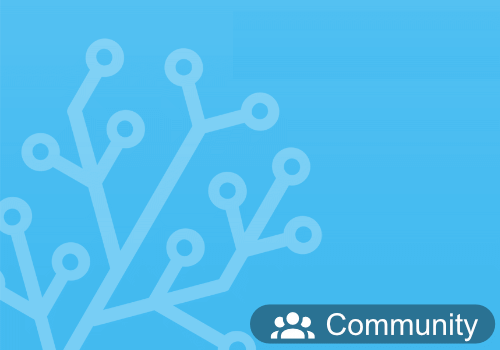
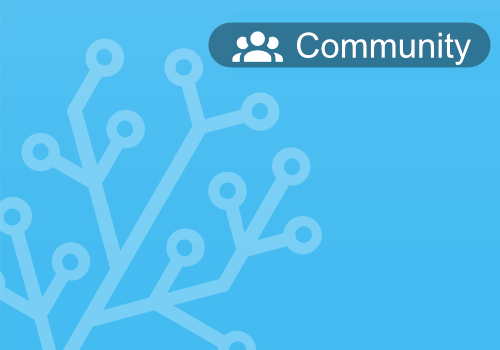
0.1.1
Updated: App image, Community thread;
Added: Instant entity refresh without app restart/manual reconnect.

Changed region(s): [[0.39, 0.0571, 0.99, 0.2], [0.48, 0.8571, 0.99, 1.0]]

diff --git a/lib/Client.js b/lib/Client.js
@@ -47,6 +47,7 @@ class Client extends Homey.SimpleClass {
 		this._binary_sensors = [];
 		this._compounds = [];
 		this._media_players = [];
+		this._entitiesLength = 0;
 
 		this._devices = {};
 		this._connection = null;
@@ -115,12 +116,14 @@ class Client extends Homey.SimpleClass {
 		});
 	}
 
-	async disconnect(){
+	async disconnect(wait = true){
 		if(this._unsubscribeEntities != null){
 			try{
 				this._app.log('unsubscribe entity subscription');
 				this._unsubscribeEntities();
-				await this.sleep(2000);
+				if (wait){
+					await this.sleep(2000);
+				}
 				this._unsubscribeEntities = null;
 			}
 			catch(error){
@@ -131,7 +134,30 @@ class Client extends Homey.SimpleClass {
 			try{
 				this._app.log('close existing connection.');
 				this._connection.close();
-				await this.sleep(1000);
+				if (wait){
+					await this.sleep(1000);
+				}
+				this._connection = null;
+			}
+			catch(error){
+				this._app.error('Error: close existing connection.');
+			}
+		}
+	}
+
+	async close(){
+		if(this._unsubscribeEntities != null){
+			try{
+				this._unsubscribeEntities();
+				this._unsubscribeEntities = null;
+			}
+			catch(error){
+				this._app.error('Error: close existing connection.');
+			}
+		}
+		if(this._connection != null) {
+			try{
+				this._connection.close();
 				this._connection = null;
 			}
 			catch(error){
@@ -161,6 +187,7 @@ class Client extends Homey.SimpleClass {
 					this._binary_sensors = [];
 					this._collection = null;
 					this._entities = [];
+					this._entitiesLength = 0;
 
 					let auth = new Hass.Auth({
 						hassUrl: address,
@@ -227,7 +254,8 @@ class Client extends Homey.SimpleClass {
 	}
 	
 	_onEntitiesUpdate(entities) {
-		if(this._entities.length != entities.length) {
+		let currentLength = Object.keys(entities).length;
+		if(currentLength != this._entitiesLength) {
 			this._app.log("update entities");
 
 			let lights = [];
@@ -762,6 +790,7 @@ class Client extends Homey.SimpleClass {
 			this._compounds = compounds;
 			this._media_players = media_players;
 			this._entities = entities;
+			this._entitiesLength = currentLength;
 
 			if(update) {
 				setTimeout(() => {

diff --git a/drivers/switch/device.js b/drivers/switch/device.js
@@ -15,11 +15,6 @@ class SwitchDevice extends Homey.Device {
 
         this._client.registerDevice(this.entityId, this);
 
-        let entity = this._client.getEntity(this.entityId);
-        if(entity) { 
-            this.onEntityUpdate(entity);
-        }
-
         this.registerCapabilityListener('onoff', async (value, opts) => {
             await this.onCapabilityOnoff(value, opts);
         });
@@ -28,6 +23,10 @@ class SwitchDevice extends Homey.Device {
         this.registerCapabilityListener('button.reconnect', async () => {
             await this.clientReconnect()
         });
+
+        // Init device with a short timeout to wait for initial entities
+        this.timeoutInitDevice = this.homey.setTimeout(async () => this.onInitDevice().catch(e => console.log(e)), 5 * 1000 );
+
     }
 
     async updateCapabilities(){
@@ -45,6 +44,18 @@ class SwitchDevice extends Homey.Device {
     onDeleted() {
         this.log('device deleted');
         this._client.unregisterDevice(this.entityId);
+    }
+
+    async onInitDevice(){
+        // Init device on satrtup with latest data to have initial values before HA sends updates
+        this.homey.clearTimeout(this.timeoutInitDevice);
+        this.timeoutInitDevice = null;
+
+        this.log('Device init data. ID: '+this.entityId+" Name: "+this.getName()+" Class: "+this.getClass());
+        let entity = this._client.getEntity(this.entityId);
+        if (entity){
+            this.onEntityUpdate(entity);
+        }
     }
 
     async onCapabilityOnoff( value, opts ) {

diff --git a/drivers/compound/device.js b/drivers/compound/device.js
@@ -49,6 +49,10 @@ class CompoundDevice extends Homey.Device {
         this.timeoutInitDevice = this.homey.setTimeout(async () => this.onInitDevice().catch(e => console.log(e)), 5 * 1000 );
     }
 
+    async onUninit(){
+
+    }
+    
     async updateCapabilities(){
         // Add new capabilities (if not already added)
         if (!this.hasCapability('button.reconnect'))
@@ -146,6 +150,9 @@ class CompoundDevice extends Homey.Device {
 
     async onInitDevice(){
         // Init device on satrtup with latest data to have initial values before HA sends updates
+        this.homey.clearTimeout(this.timeoutInitDevice);
+        this.timeoutInitDevice = null;
+
         this.log('Device init data. ID: '+this.entityId+" Name: "+this.getName()+" Class: "+this.getClass());
         
         Object.keys(this.compoundCapabilities).forEach(key => {
@@ -201,7 +208,9 @@ class CompoundDevice extends Homey.Device {
                                     tokens.value_boolean = value;
                                     break;
                             }
-                            this.homey.app._flowTriggerCapabilityChanged.trigger(this, tokens, state);
+                            if (this.homey.app){
+                                await this.homey.app._flowTriggerCapabilityChanged.trigger(this, tokens, state);
+                            }
                         }
                     }
                     catch(error) {

diff --git a/drivers/media/device.js b/drivers/media/device.js
@@ -155,6 +155,9 @@ class MediaDevice extends Homey.Device {
 
     async onInitDevice(){
         // Init device on satrtup with latest data to have initial values before HA sends updates
+        this.homey.clearTimeout(this.timeoutInitDevice);
+        this.timeoutInitDevice = null;
+
         this.log('Device init data. ID: '+this.entityId+" Name: "+this.getName()+" Class: "+this.getClass());
         let entity = this._client.getEntity(this.capability);
         if (entity){

diff --git a/drivers/sensor/device.js b/drivers/sensor/device.js
@@ -44,6 +44,9 @@ class SensorDevice extends Homey.Device {
 
     async onInitDevice(){
         // Init device on satrtup with latest data to have initial values before HA sends updates
+        this.homey.clearTimeout(this.timeoutInitDevice);
+        this.timeoutInitDevice = null;
+
         this.log('Device init data. ID: '+this.entityId+" Name: "+this.getName()+" Class: "+this.getClass());
         let entity = this._client.getEntity(this.entityId);
         if (entity){

diff --git a/drivers/light/device.js b/drivers/light/device.js
@@ -52,6 +52,9 @@ class LightDevice extends Homey.Device {
 
     async onInitDevice(){
         // Init device on satrtup with latest data to have initial values before HA sends updates
+        this.homey.clearTimeout(this.timeoutInitDevice);
+        this.timeoutInitDevice = null;
+
         this.log('Device init data. ID: '+this.entityId+" Name: "+this.getName()+" Class: "+this.getClass());
         let entity = this._client.getEntity(this.entityId);
         if (entity){

diff --git a/app.js b/app.js
@@ -12,6 +12,7 @@ class App extends Homey.App {
 	
 	async onInit() {
 		await super.onInit();
+		this.homey.on('unload', async () => await this.onUninit());
 
 		this.log('Home-Assistant is running...');
 
@@ -110,6 +111,12 @@ class App extends Homey.App {
 				await this._reconnectClient();
 			}
 		});
+	}
+
+	async onUninit(){
+		console.log("App onUninit() - close connection");
+		await this._client.close();
+		this._client = null;
 	}
 
 	getClient() {
